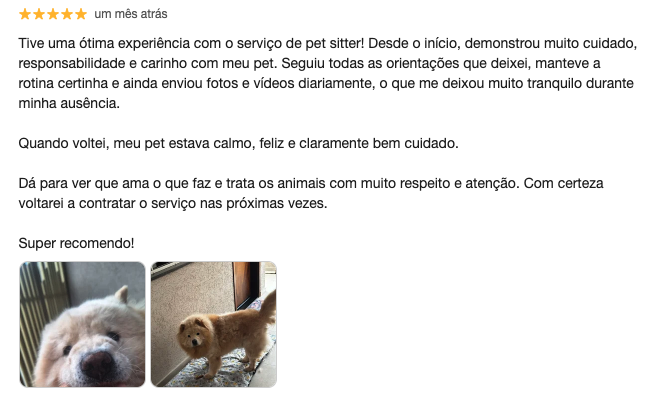
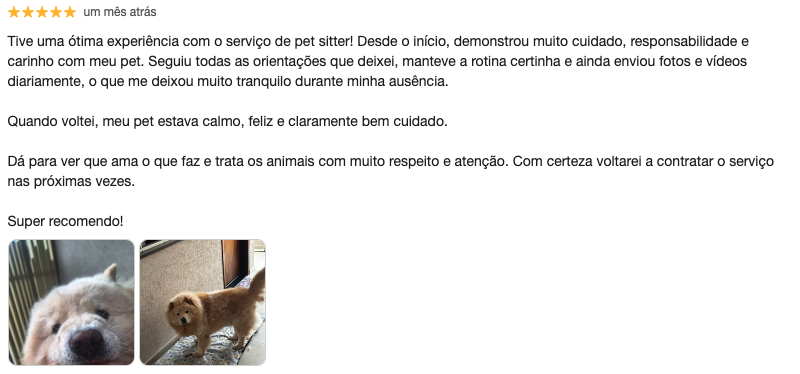
Fix reviews styles

diff --git a/app/components/reviews/styles.ts b/app/components/reviews/styles.ts
@@ -62,15 +62,18 @@ export const StyledSwiperSlide = styled(SwiperSlide)(({ theme }) => ({
     objectFit: 'contain',
     width: '100%',
     maxWidth: '920px',
-    height: '480px',
+    height: '440px',
     [theme.breakpoints.down('xl')]: {
-      height: '440px',
+      height: '400px',
     },
     [theme.breakpoints.down('lg')]: {
-      height: '340px',
+      height: '300px',
     },
     [theme.breakpoints.down('md')]: {
-      height: '280px',
+      height: '320px',
+    },
+    [theme.breakpoints.down('sm')]: {
+      height: '220px',
     },
   },
 }));
